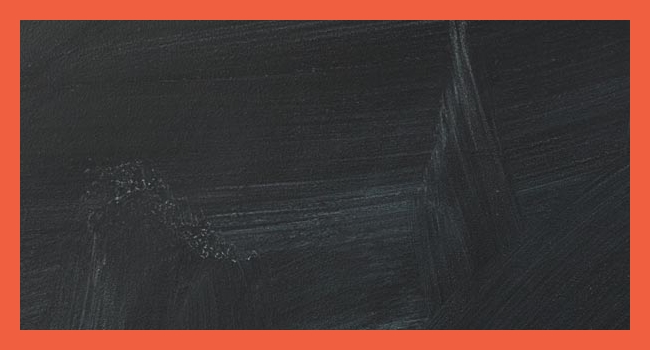
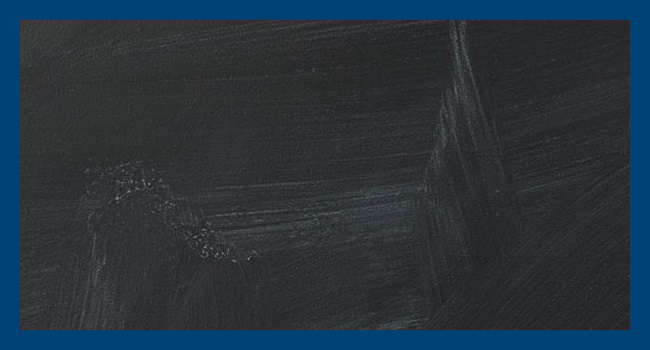
Updated website with new content, changed colours.

Changed region(s): [[0.0, 0.0, 1.0, 1.0]]

diff --git a/css/creative.css b/css/creative.css
@@ -16,7 +16,7 @@ body {
 
 hr {
     max-width: 50px;
-    border-color: #f05f40;
+    border-color: #004274;
     border-width: 3px;
 }
 
@@ -25,7 +25,7 @@ hr.light {
 }
 
 a {
-    color: #f05f40;
+    color: #004274;
     -webkit-transition: all .35s;
     -moz-transition: all .35s;
     transition: all .35s;
@@ -33,7 +33,7 @@ a {
 
 a:hover,
 a:focus {
-    color: #eb3812;
+    color: #0082e6;
 }
 
 h1,
@@ -52,7 +52,7 @@ p {
 }
 
 .bg-primary {
-    background-color: #f05f40;
+    background-color: #004274;
 }
 
 .bg-dark {
@@ -89,12 +89,12 @@ aside {
     text-transform: uppercase;
     font-family: 'Open Sans','Helvetica Neue',Arial,sans-serif;
     font-weight: 700;
-    color: #f05f40;
+    color: #004274;
 }
 
 .navbar-default .navbar-header .navbar-brand:hover,
 .navbar-default .navbar-header .navbar-brand:focus {
-    color: #eb3812;
+    color: #0082e6;
 }
 
 .navbar-default .nav > li>a,
@@ -107,12 +107,12 @@ aside {
 
 .navbar-default .nav > li>a:hover,
 .navbar-default .nav>li>a:focus:hover {
-    color: #f05f40;
+    color: #004274;
 }
 
 .navbar-default .nav > li.active>a,
 .navbar-default .nav>li.active>a:focus {
-    color: #f05f40!important;
+    color: #004274!important;
     background-color: transparent;
 }
 
@@ -153,12 +153,12 @@ aside {
 
     .navbar-default.affix .navbar-header .navbar-brand {
         font-size: 14px;
-        color: #f05f40;
+        color: #004274;
     }
 
     .navbar-default.affix .navbar-header .navbar-brand:hover,
     .navbar-default.affix .navbar-header .navbar-brand:focus {
-        color: #eb3812;
+        color: #0082e6;
     }
 
     .navbar-default.affix .nav > li>a,
@@ -168,7 +168,7 @@ aside {
 
     .navbar-default.affix .nav > li>a:hover,
     .navbar-default.affix .nav>li>a:focus:hover {
-        color: #f05f40;
+        color: #004274;
     }
 }
 
@@ -274,7 +274,7 @@ header .header-content .header-content-inner p {
     text-align: center;
     color: #fff;
     opacity: 0;
-    background: rgba(240,95,64,.9);
+    background: rgba(0,66,116,.4);
     -webkit-transition: all .35s;
     -moz-transition: all .35s;
     transition: all .35s;
@@ -323,7 +323,7 @@ header .header-content .header-content-inner p {
 }
 
 .text-primary {
-    color: #f05f40;
+    color: #004274;
 }
 
 .no-gutter > [class*=col-] {
@@ -385,9 +385,9 @@ fieldset[disabled] .btn-default.active {
 }
 
 .btn-primary {
-    border-color: #f05f40;
+    border-color: #004274;
     color: #fff;
-    background-color: #f05f40;
+    background-color: #004274;
     -webkit-transition: all .35s;
     -moz-transition: all .35s;
     transition: all .35s;
@@ -399,9 +399,9 @@ fieldset[disabled] .btn-default.active {
 .btn-primary:active,
 .btn-primary.active,
 .open > .dropdown-toggle.btn-primary {
-    border-color: #ed431f;
+    border-color: #0065b3;
     color: #fff;
-    background-color: #ee4b28;
+    background-color: #0074cc;
 }
 
 .btn-primary:active,
@@ -428,12 +428,12 @@ fieldset[disabled] .btn-primary:active,
 .btn-primary.disabled.active,
 .btn-primary[disabled].active,
 fieldset[disabled] .btn-primary.active {
-    border-color: #f05f40;
-    background-color: #f05f40;
+    border-color: #004274;
+    background-color: #004274;
 }
 
 .btn-primary .badge {
-    color: #f05f40;
+    color: #004274;
     background-color: #fff;
 }
 

diff --git a/index.html b/index.html
@@ -2,7 +2,6 @@
 <html lang="en">
 
 <head>
-
     <meta charset="utf-8">
     <meta http-equiv="X-UA-Compatible" content="IE=edge">
     <meta name="viewport" content="width=device-width, initial-scale=1">
@@ -25,18 +24,9 @@
 
     <!-- Custom CSS -->
     <link rel="stylesheet" href="css/creative.css" type="text/css">
-
-    <!-- HTML5 Shim and Respond.js IE8 support of HTML5 elements and media queries -->
-    <!-- WARNING: Respond.js doesn't work if you view the page via file:// -->
-    <!--[if lt IE 9]>
-        <script src="https://oss.maxcdn.com/libs/html5shiv/3.7.0/html5shiv.js"></script>
-        <script src="https://oss.maxcdn.com/libs/respond.js/1.4.2/respond.min.js"></script>
-    <![endif]-->
-
 </head>
 
 <body id="page-top">
-
     <nav id="mainNav" class="navbar navbar-default navbar-fixed-top">
         <div class="container-fluid">
             <!-- Brand and toggle get grouped for better mobile display -->
@@ -64,9 +54,7 @@
                     </li>
                 </ul>
             </div>
-            <!-- /.navbar-collapse -->
         </div>
-        <!-- /.container-fluid -->
     </nav>
 
     <header>
@@ -74,7 +62,7 @@
             <div class="header-content-inner">
                 <h1>Matthew James Hodgson</h1>
                 <hr>
-                <p>I am currently a third year software engineering student at the University of Victoria. I have recently completed an 8 month cooperative work term at the University of Victoria's Division of Continuing Studies as a web application programmer. I am searching for new opportunities for the upcoming summer term.</p>
+                <p>I am a third year software engineering student at the University of Victoria. I have completed an 8 month cooperative work term at the University of Victoria's Division of Continuing Studies as a web application programmer. I am currently working at ISM Canada as an application developer primarily using WPF, VB.NET, and XAML.</p>
                 <a href="#about" class="btn btn-primary btn-xl page-scroll">Find Out More</a>
             </div>
         </div>
@@ -120,7 +108,7 @@
                     </a>
                 </div>
                 <div class="col-lg-4 col-sm-6">
-                    <a href="snake/snake.html" class="portfolio-box">
+                    <a href="snake.html" class="portfolio-box">
                         <img src="img/project.jpg" class="img-responsive" alt="">
                         <div class="portfolio-box-caption">
                             <div class="portfolio-box-caption-content">
@@ -186,7 +174,5 @@
 
     <!-- Custom Theme JavaScript -->
     <script src="js/creative.js"></script>
-
 </body>
-
 </html>

diff --git a/snake/snake.js b/snake/snake.js
@@ -5,19 +5,22 @@ var gameTimer;
 var gameTime = 0;
 var timerText;
 
+var WIDTH = window.innerWidth;
+var HEIGHT = window.innerHeight;
+
 window.onload = function()
 {
     var canvas = document.getElementById('canvas');
     context = canvas.getContext('2d');
-    context.canvas.width = 800;
-    context.canvas.height = 600;
+    context.canvas.width = WIDTH;
+    context.canvas.height = HEIGHT;
     stage = new createjs.Stage("canvas");
 
     queue = new createjs.LoadQueue(false);
     queue.on("complete", queueLoaded, this);
 
     queue.loadManifest([
-        {id: 'background', src: 'assets/background.png'},
+        {id: 'background', src: 'snake/assets/background.png'},
     ]);
     queue.load();
 
@@ -27,6 +30,8 @@ window.onload = function()
 function queueLoaded(event)
 {
     var background = new createjs.Bitmap(queue.getResult("background"));
+    background.x = 800 - WIDTH;
+    background.y = 600 - HEIGHT;
     stage.addChild(background);
 
     timerText = new createjs.Text("Time: " + gameTime.toString(), "36px Arial", "#FFF");
@@ -36,7 +41,6 @@ function queueLoaded(event)
 
     createjs.Ticker.setFPS(30);
     createjs.Ticker.addEventListener('tick', stage);
-    createjs.Ticker.addEventListener('tick', tickEvent);
 }
 
 function updateTime()

diff --git a/snake.html b/snake.html
@@ -2,9 +2,9 @@
 <html>
 	<head>
 		<title>Javascript Snake Game</title>
-		<link href="normalize.css" type="text/css" rel="stylesheet" />
+		<link href="css/normalize.css" type="text/css" rel="stylesheet" />
 		<script language="javascript" type="text/javascript" src="https://code.createjs.com/createjs-2015.11.26.min.js"></script>
-		<script language="javascript" type="text/javascript" src="snake.js"></script>
+		<script language="javascript" type="text/javascript" src="snake/snake.js"></script>
 	</head>
 	<body>
 		<canvas id="canvas"></canvas>
